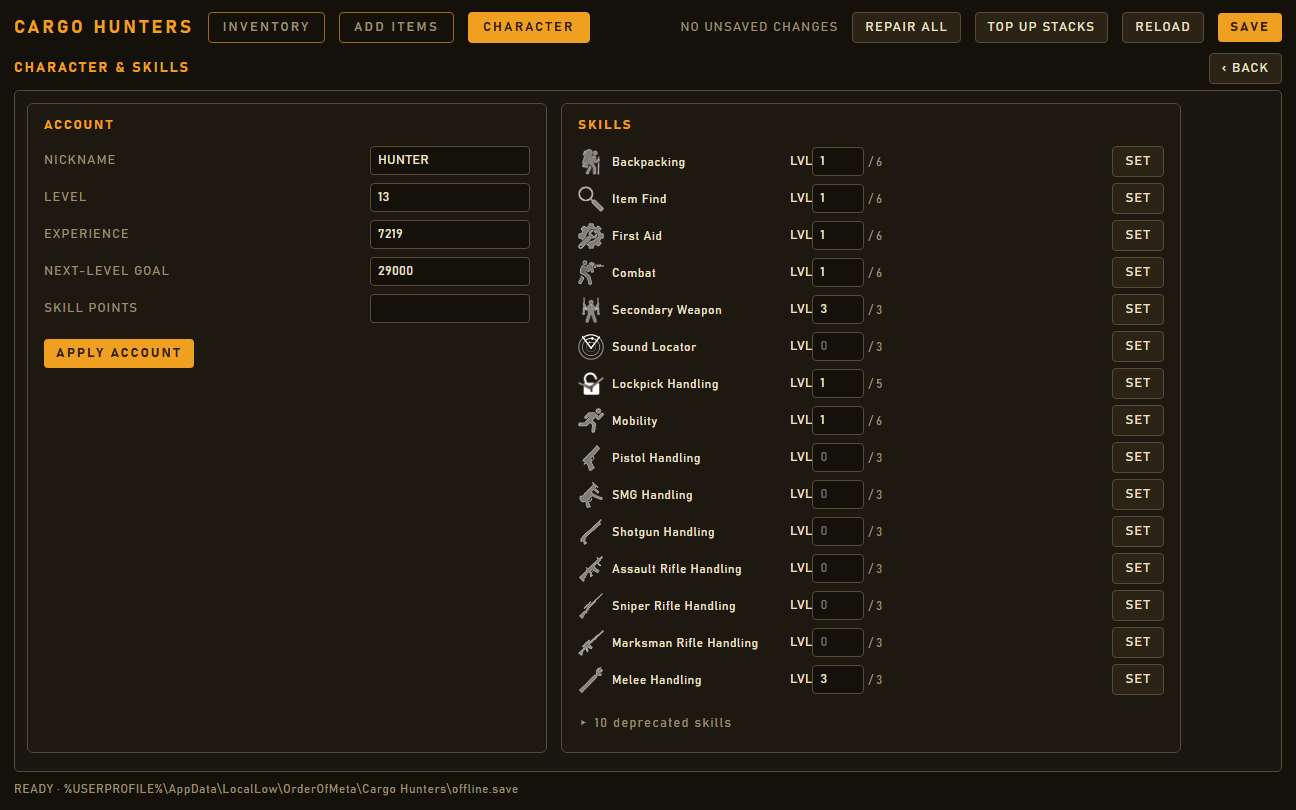
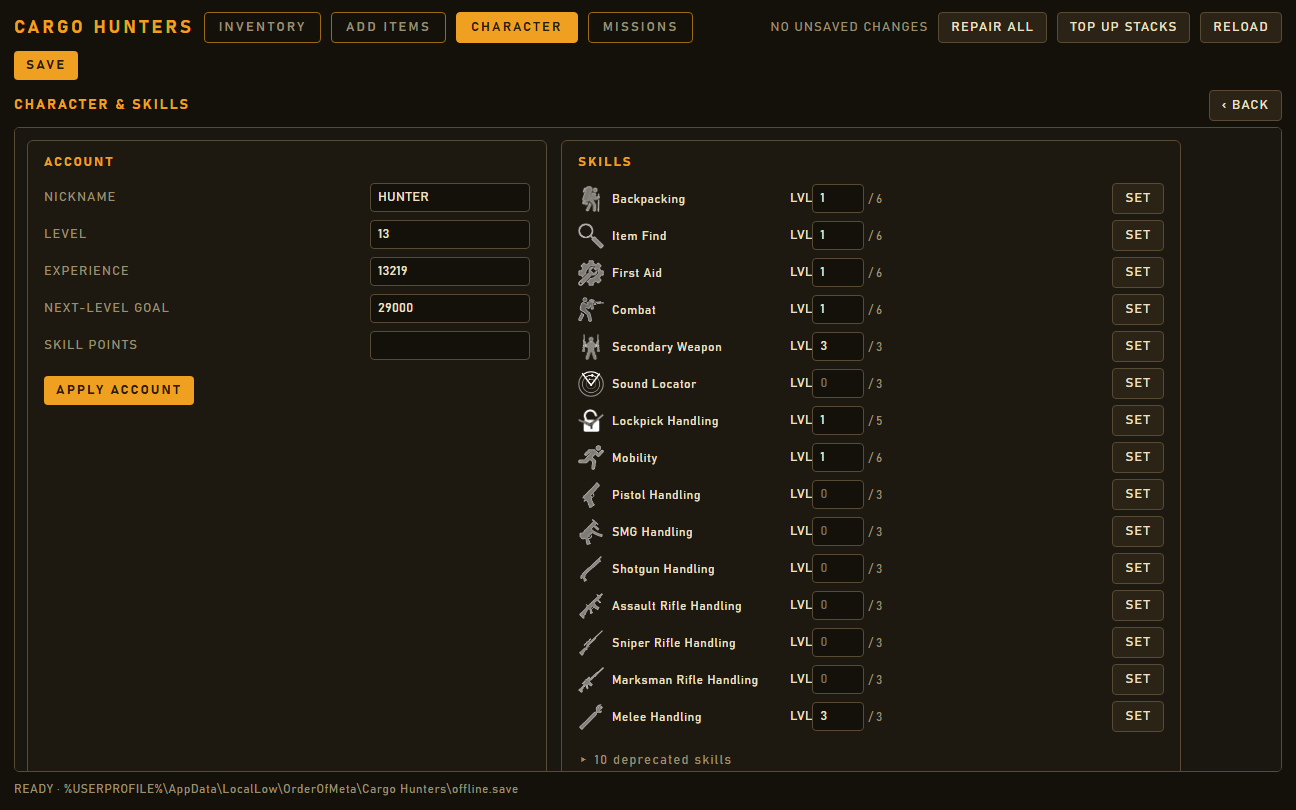
Fix toolbar layout (clipped title, wrapped labels); add Missions screenshot + README
The shared topbar clipped 'CARGO HUNTERS' and wrapped button labels to two lines
on narrow windows. Items now refuse to shrink/wrap and the toolbar wraps to a
second row instead - fixed across every menu. Refresh all screenshots, add the
Missions tab shot, and document the new features (pages, copy/paste, multi-select,
top-up, missions decipher + add-materials).

diff --git a/app/src/theme.css b/app/src/theme.css
@@ -41,6 +41,7 @@ button {
   padding: 6px 12px;
   letter-spacing: 1px;
   cursor: pointer;
+  white-space: nowrap; /* never wrap a label like "TOP UP STACKS" to two lines */
   transition: border-color .12s, color .12s, background .12s;
 }
 button:hover:not(:disabled) { border-color: var(--amber); color: var(--amber); }
@@ -63,10 +64,14 @@ input:focus { outline: none; border-color: var(--amber); }
 /* ---- shell ---- */
 .app { display: flex; flex-direction: column; height: 100vh; padding: 12px 14px; gap: 10px; }
 
-.topbar { display: flex; align-items: center; gap: 14px; }
-.title { color: var(--amber); font-size: 18px; font-weight: 700; letter-spacing: 3px; }
-.grow { flex: 1; }
-.dirty { color: var(--textdim); letter-spacing: 1px; }
+/* Toolbar wraps to a second row on narrow windows instead of clipping the
+   title or squashing button labels. Every item refuses to shrink/wrap so the
+   title always reads "CARGO HUNTERS" in full and labels stay on one line. */
+.topbar { display: flex; align-items: center; flex-wrap: wrap; gap: 8px 10px; }
+.topbar > * { flex-shrink: 0; }
+.title { color: var(--amber); font-size: 18px; font-weight: 700; letter-spacing: 3px; white-space: nowrap; }
+.grow { flex: 1 1 0; min-width: 0; }
+.dirty { color: var(--textdim); letter-spacing: 1px; white-space: nowrap; }
 .dirty.on { color: var(--amber); font-weight: 700; }
 
 .main { flex: 1; display: flex; gap: 12px; min-height: 0; }

diff --git a/README.md b/README.md
@@ -4,13 +4,23 @@ A local, offline desktop editor for the Cargo Hunters `offline.save`. It shows a
 Tarkov-style screen - the robot's body parts laid out on a paperdoll silhouette
 with worn gear in side rails, and the stash on an accurate grid - and lets you:
 
-- edit any item's stack quantity, condition, and durability;
-- repair / refill / top-off a single item - or **everything at once**;
+- edit any item's stack quantity, condition, and durability (on any item, even
+  one with no stats yet);
+- repair / refill / top-off a single item - or **everything at once** - and
+  **top up every stack** to its max;
 - move items on the grid (drag-and-drop), split stacks, delete items;
+- **box-select** (drag a rubber-band) or **ctrl-click** multiple items, then
+  bulk repair / delete; **right-click** any item to copy / paste / delete
+  (copy/paste includes a container's full contents);
+- browse the stash across its **inventory pages** (the game's I / II tabs) and
+  move items between pages;
 - open containers (cases, weapons, ammo boxes) in their own **pop-out windows**;
 - add any catalog item to a chosen container;
 - edit character nickname, level, XP, skill points, and per-skill levels -
-  skills are shown by **name and icon** with their current/max level.
+  skills are shown by **name and icon** with their current/max level;
+- **decipher in-progress missions** (the save only stores opaque IDs): see each
+  mission's objectives and required materials with live have/need counts, and
+  add the materials you're missing so you can hand them in in-game.
 
 Edits are **staged in memory** - nothing is written until you press **SAVE**,
 which makes a timestamped backup, writes atomically, and then re-reads the file
@@ -30,6 +40,10 @@ Windows 10/11.
 | --- | --- |
 | ![Character](docs/screenshots/character-v2.png) | ![Container window](docs/screenshots/container-v2.png) |
 
+| Missions (decipher + add materials) | |
+| --- | --- |
+| ![Missions](docs/screenshots/missions-v2.png) | |
+
 (Screenshots use a demo save; account name and paths are anonymized.)
 
 ## Quick start (standalone)
@@ -40,7 +54,8 @@ Windows 10/11.
    which is already present on Windows 10/11.
 3. It loads your save automatically from
    `%USERPROFILE%\AppData\LocalLow\OrderOfMeta\Cargo Hunters\offline.save`.
-4. Switch between **INVENTORY**, **ADD ITEMS**, and **CHARACTER** with the tabs.
+4. Switch between **INVENTORY**, **ADD ITEMS**, **CHARACTER**, and **MISSIONS**
+   with the tabs.
 5. Make edits, then press **SAVE**. Backups are written next to the save as
    `offline.save.<timestamp>.bak` (the newest 20 are kept).
 
@@ -64,6 +79,7 @@ npm run tauri build    # produce app.exe + installers under src-tauri/target/rel
 | `app/src/` | The SolidJS/TypeScript frontend (paperdoll, vault grid, catalog browser, character panel). |
 | `app/public/sprites/` | Game icon + rig sprites; `BodyHUD.png` is the paperdoll silhouette. |
 | `all_items_detailed.csv` | The item catalog, embedded into the exe at build time. |
+| `quests_catalog.json` | Mission catalog (names, categories, rewards, objectives), embedded at build time. |
 
 ## How correctness is guaranteed
 
